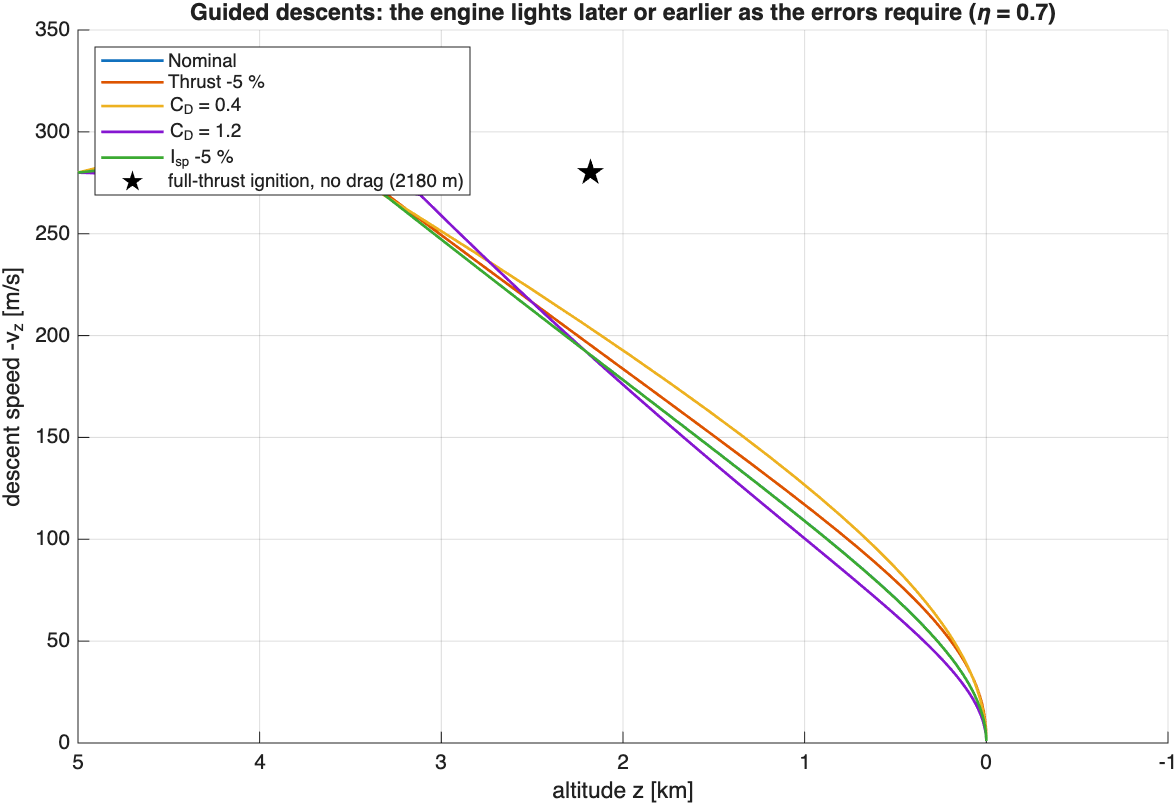
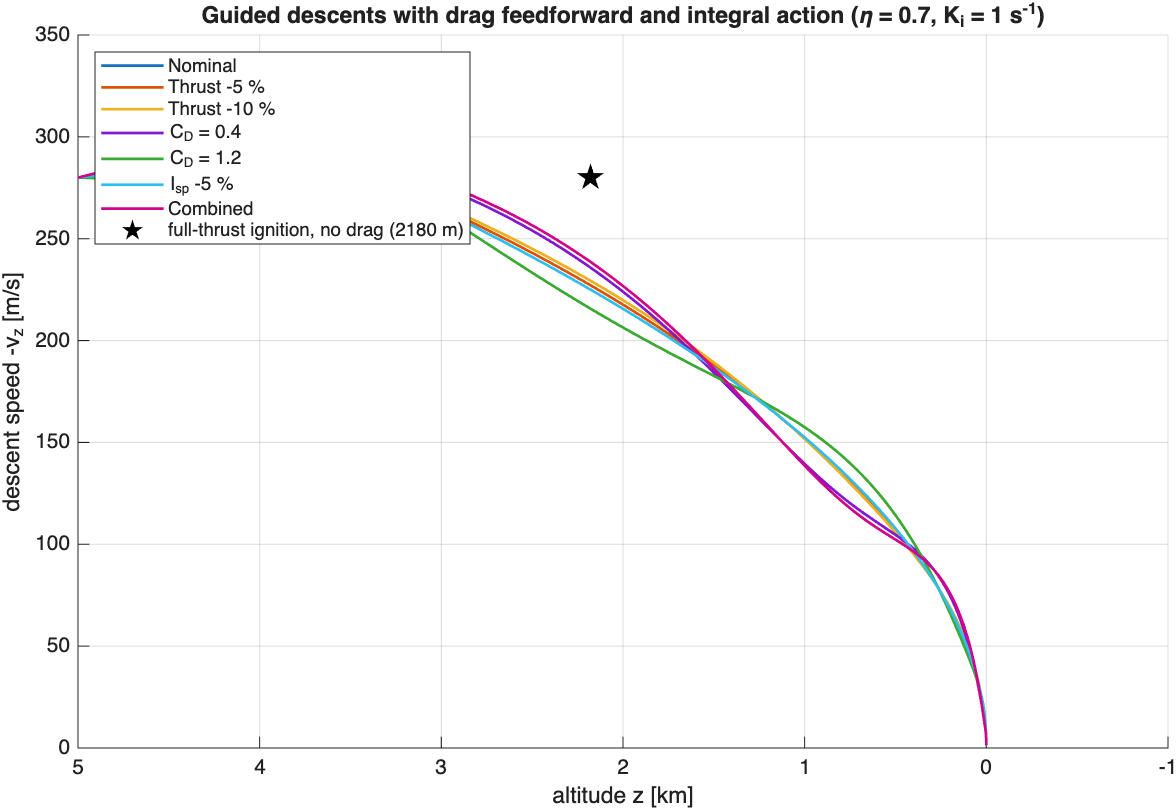
Rerun the landing study with the improved guidance
The nominal burn now holds the planned constant deceleration: 25 s
instead of 34 s, touchdown at 1.20 m/s with 1686 kg left instead of
635 kg. The study adds thrust -10 % and a combined error case; across
the seven cases touchdown is 1.15-1.38 m/s and the worst case
(thrust -5 %, CD 0.4, Isp -5 % together) leaves 818 kg.

diff --git a/studies/study_landing.m b/studies/study_landing.m
@@ -9,8 +9,9 @@ function summary = study_landing(figDir)
 %     figures/landing_dispersions.png velocity against altitude for all cases,
 %   prints the touchdown table and returns it.
 
-cases = {'Nominal', {}; 'Thrust -5 %', {'kT', 0.95}; 'C_D = 0.4', {'CD', 0.4}; ...
-         'C_D = 1.2', {'CD', 1.2}; 'I_{sp} -5 %', {'Isp', 0.95*282}};
+cases = {'Nominal', {}; 'Thrust -5 %', {'kT', 0.95}; 'Thrust -10 %', {'kT', 0.90}; ...
+         'C_D = 0.4', {'CD', 0.4}; 'C_D = 1.2', {'CD', 1.2}; 'I_{sp} -5 %', {'Isp', 0.95*282}; ...
+         'Combined', {'kT', 0.95, 'CD', 0.4, 'Isp', 0.95*282}};
 p0 = params();
 runs = cell(size(cases, 1), 1);
 for i = 1:size(cases, 1)
@@ -55,8 +56,8 @@ plot(ax, h/1e3, 280, 'kp', 'MarkerSize', 12, 'MarkerFaceColor', 'k', ...
     'DisplayName', sprintf('full-thrust ignition, no drag (%.0f m)', h));
 set(ax, 'XDir', 'reverse');
 xlabel(ax, 'altitude z [km]');  ylabel(ax, 'descent speed -v_z [m/s]');
-title(ax, sprintf(['Guided descents: the engine lights later or earlier as the errors ' ...
-    'require (\\eta = %.1f)'], p0.eta));
+title(ax, sprintf(['Guided descents with drag feedforward and integral action ' ...
+    '(\\eta = %.1f, K_i = %g s^{-1})'], p0.eta, p0.KiGuid));
 legend(ax, 'Location', 'northwest');
 exportgraphics(fig, fullfile(figDir, 'landing_dispersions.png'), 'Resolution', 150);
 close(fig);
